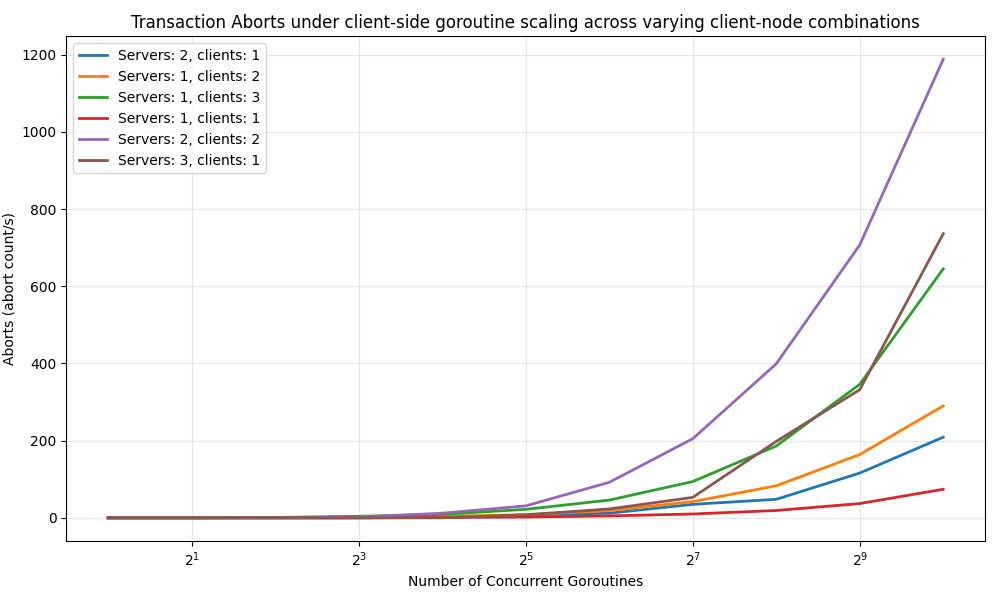
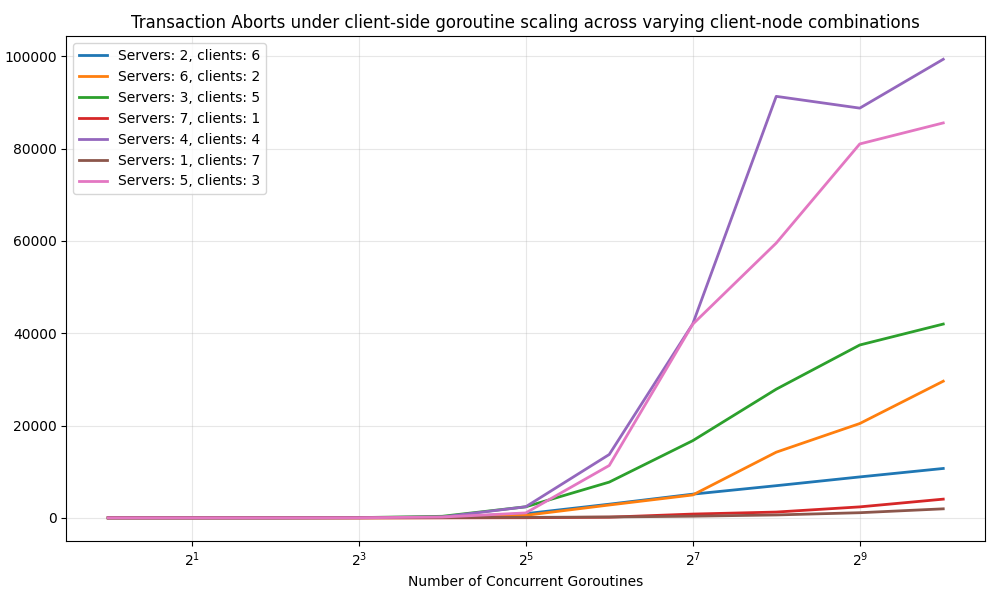
Corrected stale charts, added params to chart caption.

diff --git a/README.md b/README.md
@@ -24,7 +24,7 @@ Cluster size impact analysis for YCSB-A workload with theta=0.5, 10 second durat
 #### **Figure 2b:**
 <p align=center>
 <img src="./charts and stats/transactions-client-thread-scaling.png" width="500"/><img src="./charts and stats/operations-client-thread-scaling.png" width="500"/><br><img src="./charts and stats/aborts-client-thread-scaling.png" width="500"/><br>
-Number of client threads impact analysis for ...
+Number of client threads impact analysis for YCSB-A workload with theta=0.5 across varying client-server combinations in an 8 node cluster
 </p>
 
 
